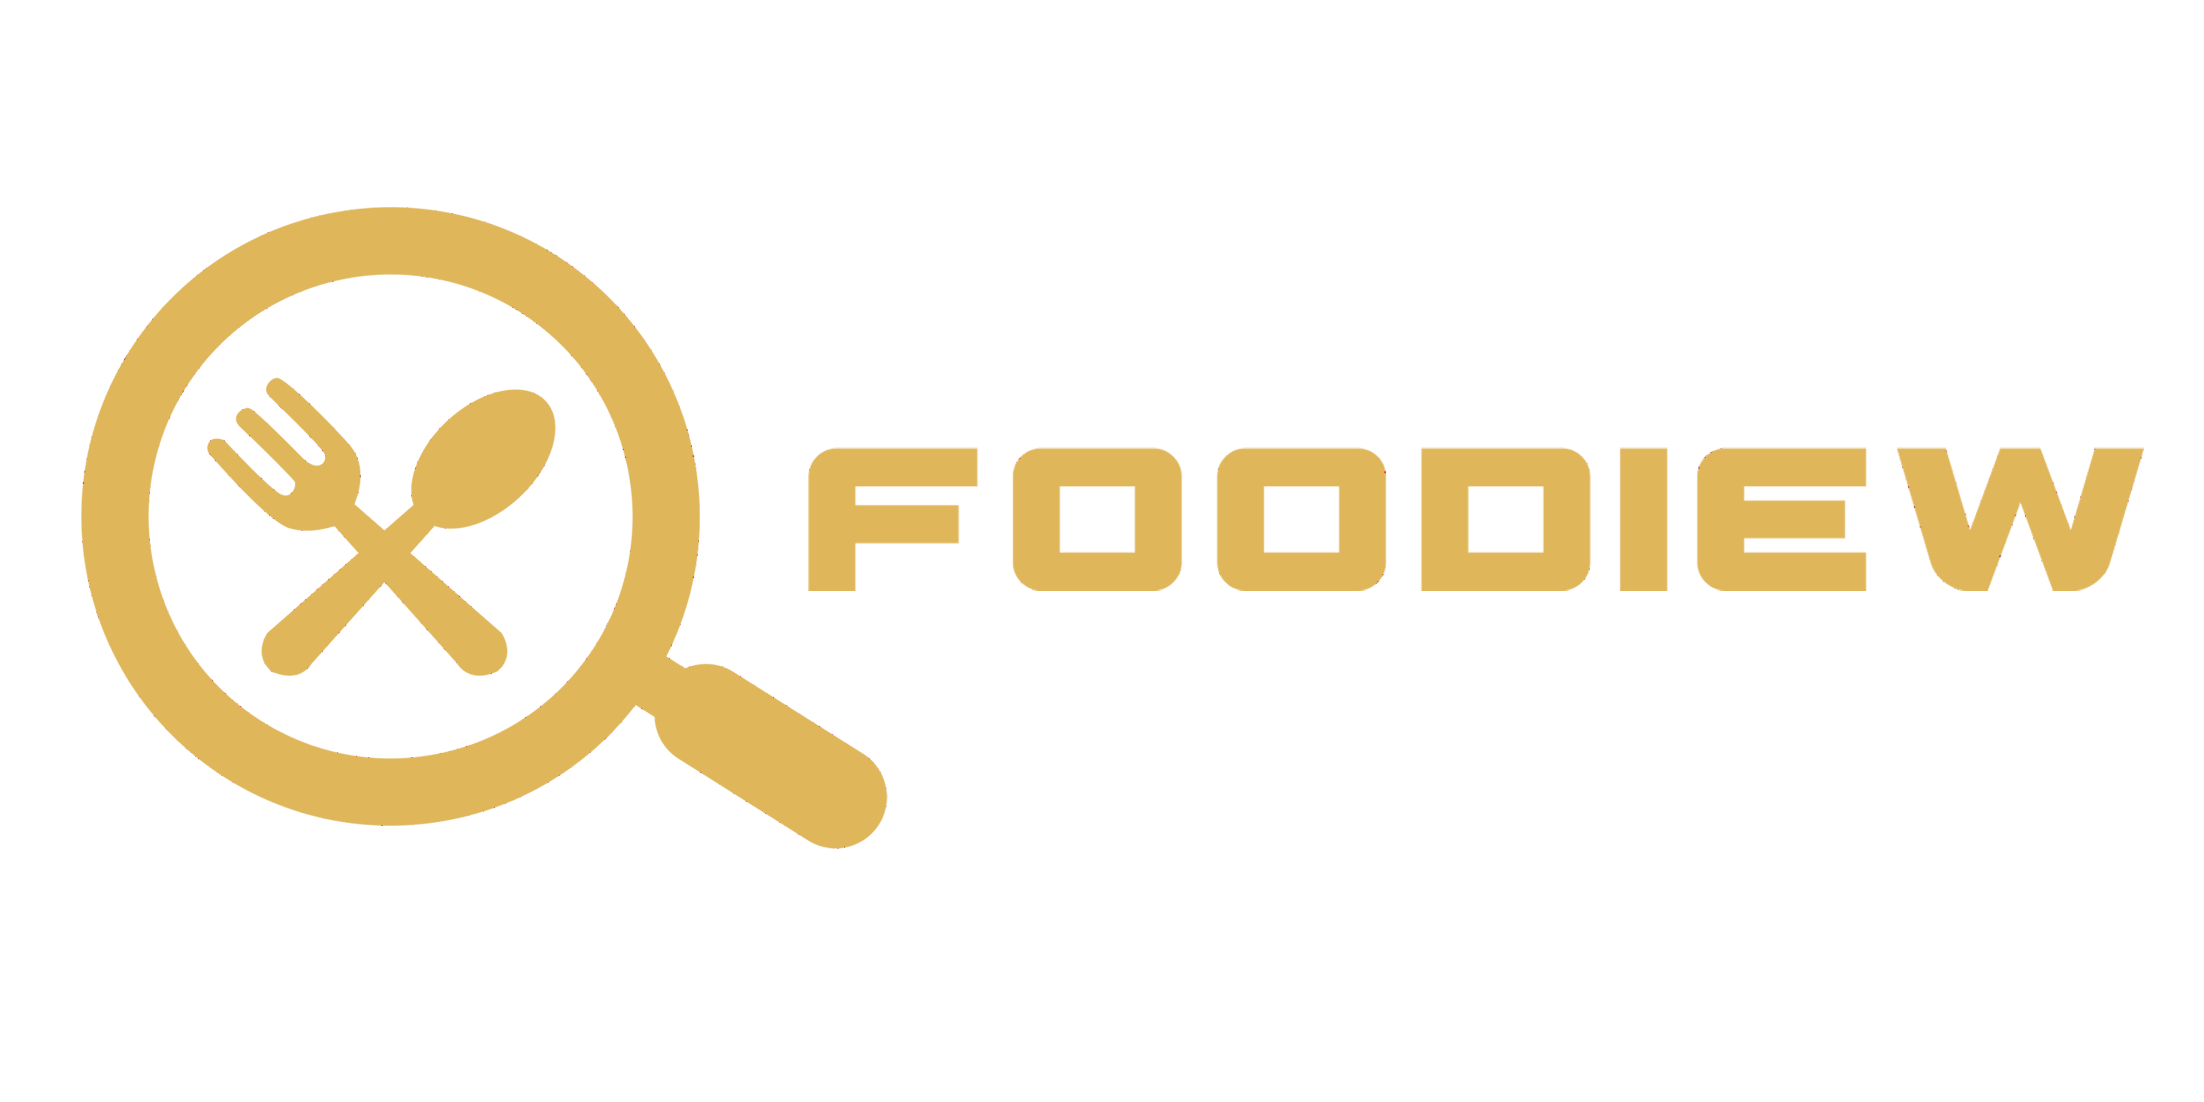
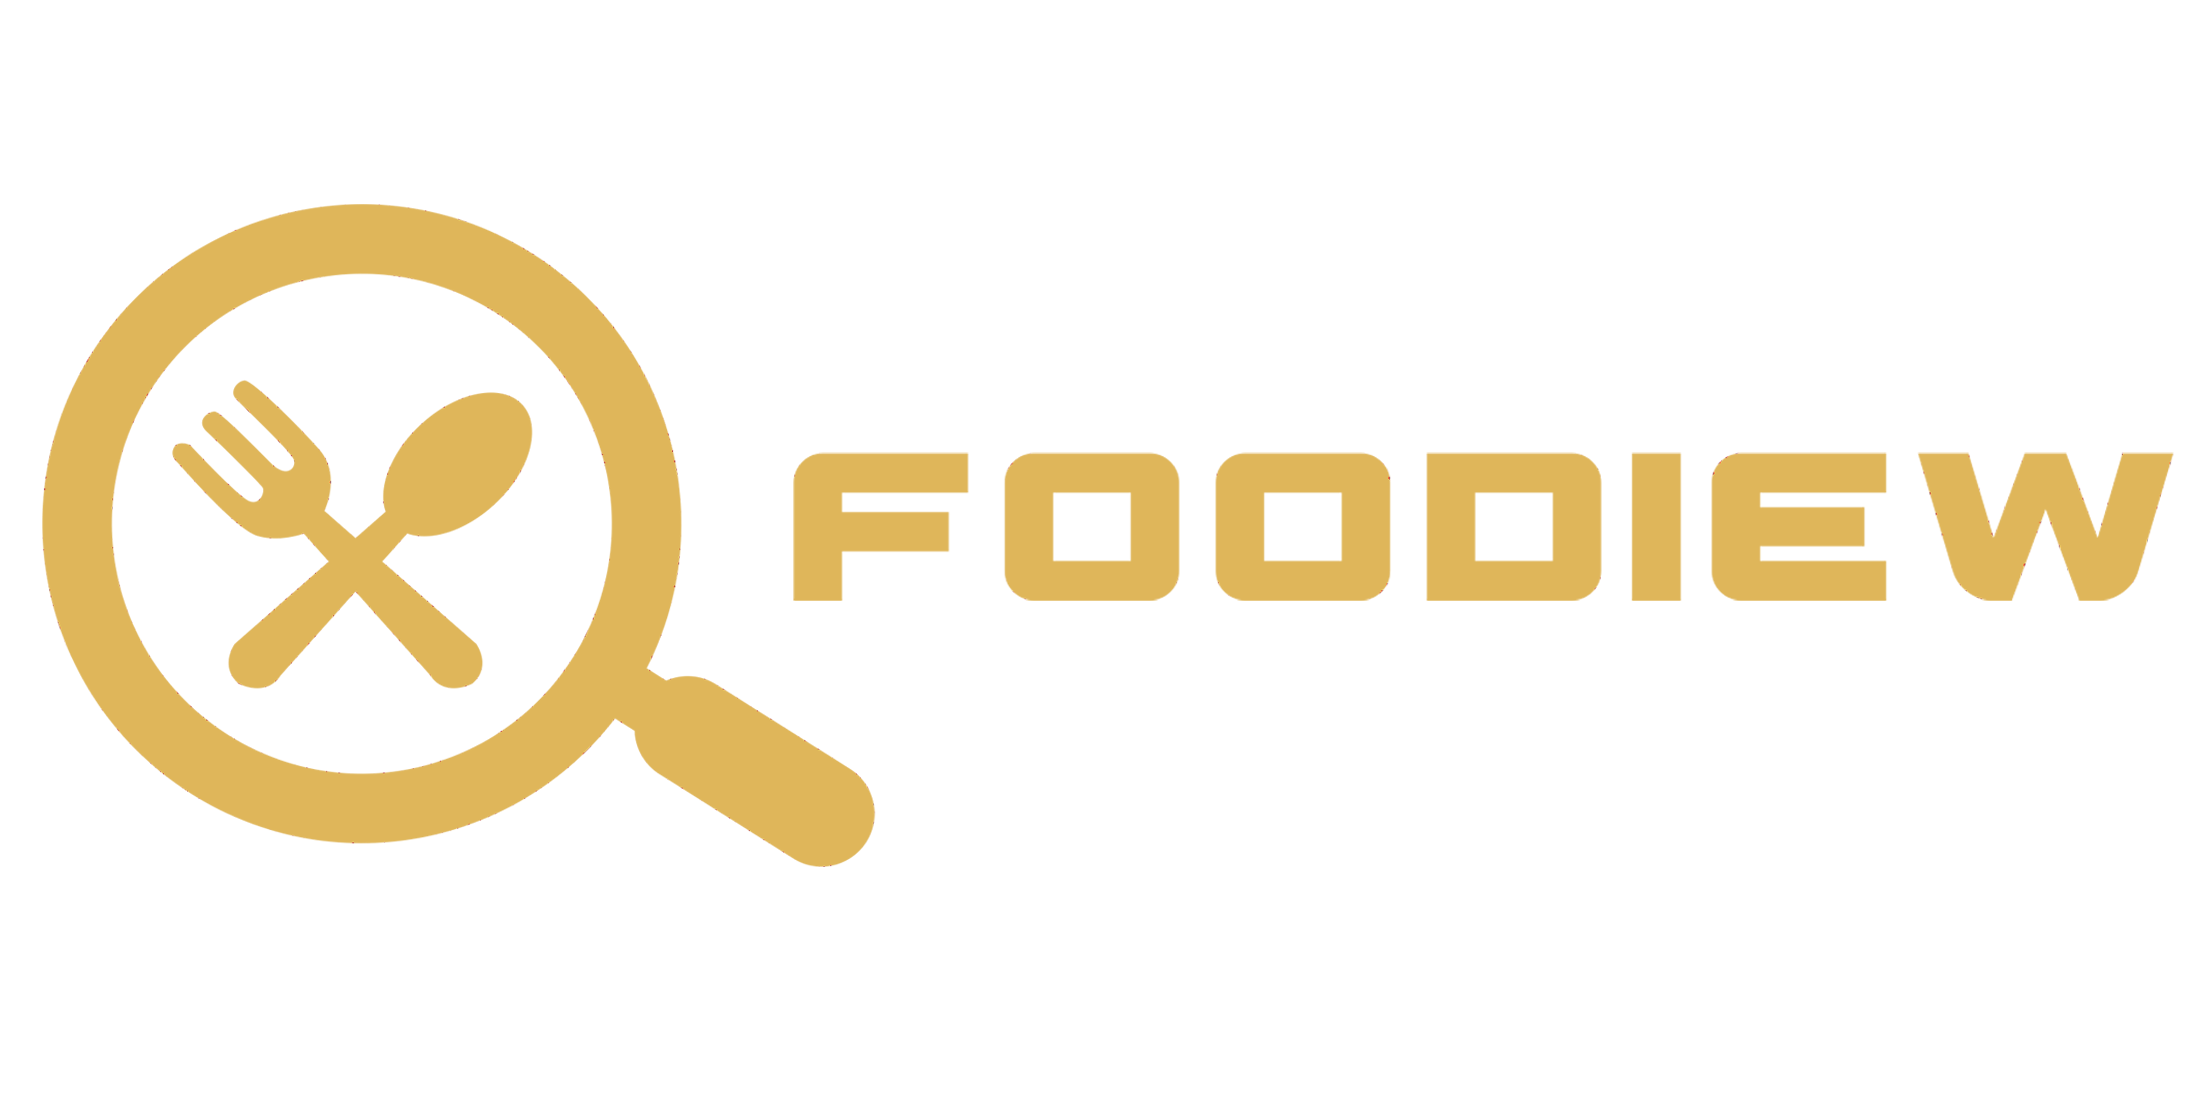
BIG UPDATE

Changed region(s): [[0.0, 0.1851, 0.9873, 0.8022], [0.2777, 0.6479, 0.3394, 0.7405], [0.216, 0.7096, 0.2468, 0.7405]]

diff --git a/halloffame.html b/halloffame.html
@@ -150,13 +150,13 @@
             </div>
         </nav>
 
-        <nav class="navbar navbar-expand-lg navbar-dark sticky-top">
+        <nav class="navbar navbar-expand-lg navbar-dark navbar-dark-alt sticky-top">
 
             <a id="toggle-sidebar" class="navbar-brand text-white mr-auto font-weight-bolder" style="font-size: .9rem;" href="#">
                 <i class="fas fa-bars"></i>
             </a>
+            <img src="./assets/img/Foodiew_samping_gold.png" alt="" style="width: 6rem;" class="top-logo-nav">
             <a class="navbar-brand text-white ml-auto font-weight-bolder" style="font-size: .9rem;" href="./profile.html">
-                Adli&nbsp;
                 <img src="./assets/img/Profile_dummy.svg" alt="" class="img-thumbnail img-circle">
             </a>
 
@@ -224,7 +224,7 @@
                             <br>
                             <span class="h6 text-white">Hall of Fame</span>
                             <br>
-                            <img src="./assets/img/Foodiew_samping_gold.png" class="img-fluid" style="width: 40%;">
+                            <!-- <img src="./assets/img/Foodiew_samping_gold.png" class="img-fluid" style="width: 40%;"> -->
                         </div>
                     </div>
                 </div>

diff --git a/profile.html b/profile.html
@@ -150,15 +150,15 @@
             </div>
         </nav>
 
-        <nav class="navbar navbar-expand-lg navbar-dark sticky-top">
+        <nav class="navbar navbar-expand-lg navbar-dark navbar-dark-alt sticky-top">
 
             <a id="toggle-sidebar" class="navbar-brand text-white mr-auto font-weight-bolder" style="font-size: .9rem;" href="#">
                 <i class="fas fa-bars"></i>
             </a>
+            <img src="./assets/img/Foodiew_samping_gold.png" alt="" style="width: 6rem;" class="top-logo-nav">
             <a class="navbar-brand text-white ml-auto font-weight-bolder" style="font-size: .9rem;" href="./profile.html">
-            Adli&nbsp;
-            <img src="./assets/img/Profile_dummy.svg" alt="" class="img-thumbnail img-circle">
-        </a>
+                <img src="./assets/img/Profile_dummy.svg" alt="" class="img-thumbnail img-circle">
+            </a>
 
             <div class="collapse navbar-collapse" id="navbarTogglerDemo03">
                 <ul class="navbar-nav mr-auto mt-2 mt-lg-0">

diff --git a/profile_cafe.html b/profile_cafe.html
@@ -150,15 +150,15 @@
             </div>
         </nav>
 
-        <nav class="navbar navbar-expand-lg navbar-dark sticky-top">
+        <nav class="navbar navbar-expand-lg navbar-dark navbar-dark-alt sticky-top">
 
             <a id="toggle-sidebar" class="navbar-brand text-white mr-auto font-weight-bolder" style="font-size: .9rem;" href="#">
                 <i class="fas fa-bars"></i>
             </a>
+            <img src="./assets/img/Foodiew_samping_gold.png" alt="" style="width: 6rem;" class="top-logo-nav">
             <a class="navbar-brand text-white ml-auto font-weight-bolder" style="font-size: .9rem;" href="./profile.html">
-            Adli&nbsp;
-            <img src="./assets/img/Profile_dummy.svg" alt="" class="img-thumbnail img-circle">
-        </a>
+                <img src="./assets/img/Profile_dummy.svg" alt="" class="img-thumbnail img-circle">
+            </a>
 
             <div class="collapse navbar-collapse" id="navbarTogglerDemo03">
                 <ul class="navbar-nav mr-auto mt-2 mt-lg-0">

diff --git a/categories.html b/categories.html
@@ -150,13 +150,13 @@
             </div>
         </nav>
 
-        <nav class="navbar navbar-expand-lg navbar-dark sticky-top">
+        <nav class="navbar navbar-expand-lg navbar-dark navbar-dark-alt sticky-top">
 
             <a id="toggle-sidebar" class="navbar-brand text-white mr-auto font-weight-bolder" style="font-size: .9rem;" href="#">
                 <i class="fas fa-bars"></i>
             </a>
+            <img src="./assets/img/Foodiew_samping_gold.png" alt="" style="width: 6rem;" class="top-logo-nav">
             <a class="navbar-brand text-white ml-auto font-weight-bolder" style="font-size: .9rem;" href="./profile.html">
-                Adli&nbsp;
                 <img src="./assets/img/Profile_dummy.svg" alt="" class="img-thumbnail img-circle">
             </a>
 

diff --git a/promo.html b/promo.html
@@ -150,13 +150,13 @@
             </div>
         </nav>
 
-        <nav class="navbar navbar-expand-lg navbar-dark sticky-top">
+        <nav class="navbar navbar-expand-lg navbar-dark navbar-dark-alt sticky-top">
 
             <a id="toggle-sidebar" class="navbar-brand text-white mr-auto font-weight-bolder" style="font-size: .9rem;" href="#">
                 <i class="fas fa-bars"></i>
             </a>
+            <img src="./assets/img/Foodiew_samping_gold.png" alt="" style="width: 6rem;" class="top-logo-nav">
             <a class="navbar-brand text-white ml-auto font-weight-bolder" style="font-size: .9rem;" href="./profile.html">
-                Adli&nbsp;
                 <img src="./assets/img/Profile_dummy.svg" alt="" class="img-thumbnail img-circle">
             </a>
 

diff --git a/dashboard_alt.html b/dashboard_alt.html
@@ -141,7 +141,7 @@
             <a id="toggle-sidebar" class="navbar-brand text-white mr-auto font-weight-bolder" style="font-size: .9rem;" href="#">
                 <i class="fas fa-bars"></i>
             </a>
-            <img src="./assets/img/Foodiew_samping_gold.png" alt="" style="width: 5.5rem;">
+            <img src="./assets/img/Foodiew_samping_gold.png" alt="" style="width: 6rem;" class="top-logo-nav">
             <a class="navbar-brand text-white ml-auto font-weight-bolder" style="font-size: .9rem;">
                 <img src="./assets/img/Profile_dummy.svg" alt="" class="img-thumbnail img-circle">
             </a>

diff --git a/assets/css/style.css b/assets/css/style.css
@@ -223,6 +223,10 @@ section {
     filter: drop-shadow(0px 0px 5px rgba(0, 0, 0, .8));
 }
 
+.top-logo-nav {
+    margin-left: 7vw;
+}
+
 
 /* END Header Section */
 
